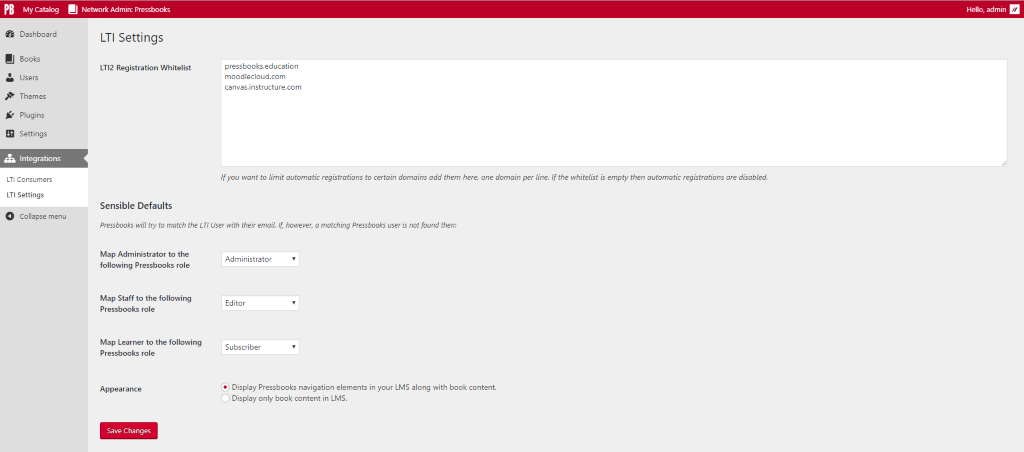
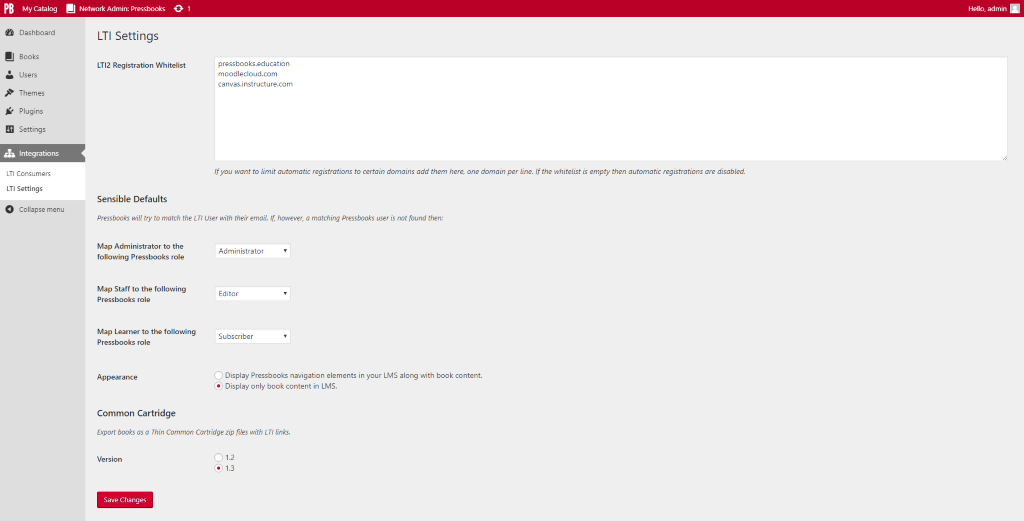
Readme and code comments

diff --git a/inc/modules/export/thincc/class-commoncartridge12.php b/inc/modules/export/thincc/class-commoncartridge12.php
@@ -65,7 +65,6 @@ class CommonCartridge12 extends Export {
 	 * @return bool
 	 */
 	public function convert() {
-
 		if ( empty( $this->tmpDir ) || ! is_dir( $this->tmpDir ) ) {
 			$this->logError( '$this->tmpDir must be set before calling convert().' );
 			return false;
@@ -373,6 +372,7 @@ class CommonCartridge12 extends Export {
 	 * @return bool
 	 */
 	public function isDiscussion( $post_id, $title ) {
+		// Backwards compatibility with SteelWagstaff/candela-thin-exports (forked from lumenlearning/candela-thin-exports)
 		if ( 0 === strpos( $title, 'Discussion:' ) ) {
 			return true;
 		}

diff --git a/inc/modules/export/thincc/class-commoncartridge13.php b/inc/modules/export/thincc/class-commoncartridge13.php
@@ -18,7 +18,6 @@ class CommonCartridge13 extends CommonCartridge12 {
 	 */
 	protected $suffix = '_1_3.zip';
 
-
 	/**
 	 * @param int $id
 	 * @param string $title
@@ -70,6 +69,7 @@ class CommonCartridge13 extends CommonCartridge12 {
 	 * @return bool
 	 */
 	public function isAssignment( $post_id, $title ) {
+		// Backwards compatibility with SteelWagstaff/candela-thin-exports` (forked from `lumenlearning/candela-thin-exports)
 		if ( 0 === strpos( $title, 'Assignment:' ) ) {
 			return true;
 		}

diff --git a/pressbooks-lti-provider.php b/pressbooks-lti-provider.php
@@ -3,7 +3,7 @@
 Plugin Name: Pressbooks LTI Provider
 Plugin URI: https://pressbooks.org
 Description: A plugin which turns Pressbooks into an LTI provider.
-Version: 0.3.0
+Version: 0.4.0
 Author: Pressbooks (Book Oven Inc.)
 Author URI: https://pressbooks.org
 Requires PHP: 7.0

diff --git a/README.md b/README.md
@@ -4,7 +4,7 @@
 **Tags:** pressbooks, lti, lms  
 **Requires at least:** 4.9.5  
 **Tested up to:** 4.9.5  
-**Stable tag:** 0.3.0  
+**Stable tag:** 0.4.0  
 **License:** GPLv3 or later  
 **License URI:** https://www.gnu.org/licenses/gpl-3.0.html  
 
@@ -91,6 +91,11 @@ Configure using the "Paste XML Configuration Type", making sure to replace the U
 [More Info](https://github.com/instructure/canvas-lms/blob/master/doc/api/content_item.md)
 
 
+## Common Cartridge 
+
+Allows users to export books as a Thin Common Cartridge zip files. Supports CC 1.2 and 1.3. Produces zip files with LTI links.
+
+
 ## Screenshots 
 
 ![Pressbooks LTI Consumers.](screenshot-1.png)
@@ -99,6 +104,10 @@ Configure using the "Paste XML Configuration Type", making sure to replace the U
 
 
 ## Changelog 
+
+
+### 0.4.0 
+* Export Thin Common Cartridge
 
 
 ### 0.3.0 
